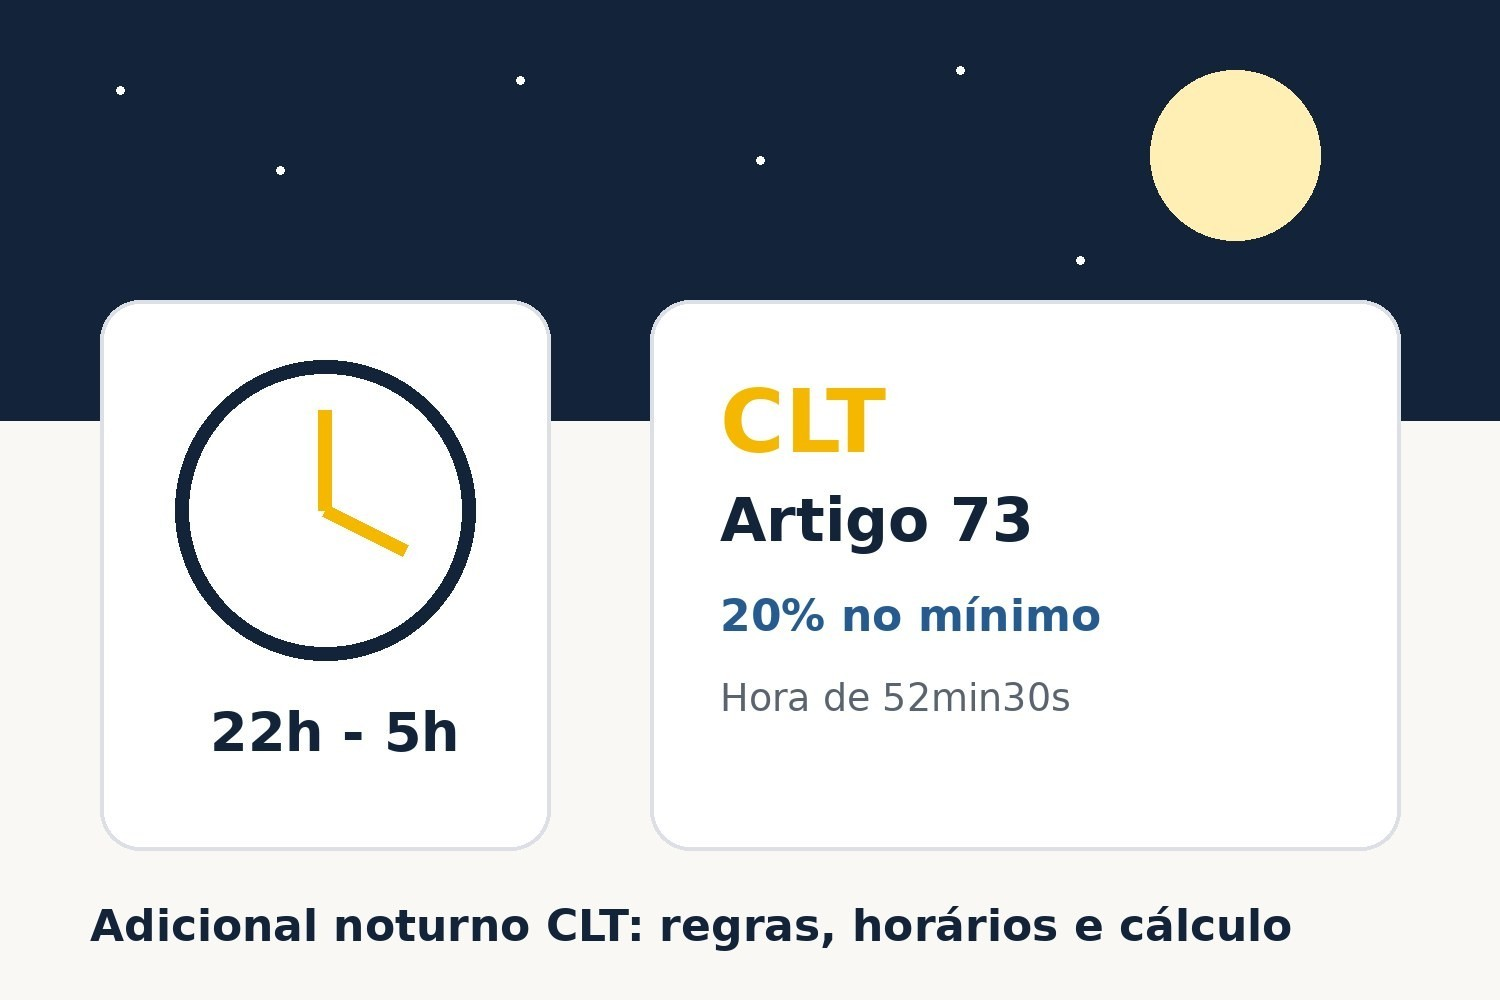
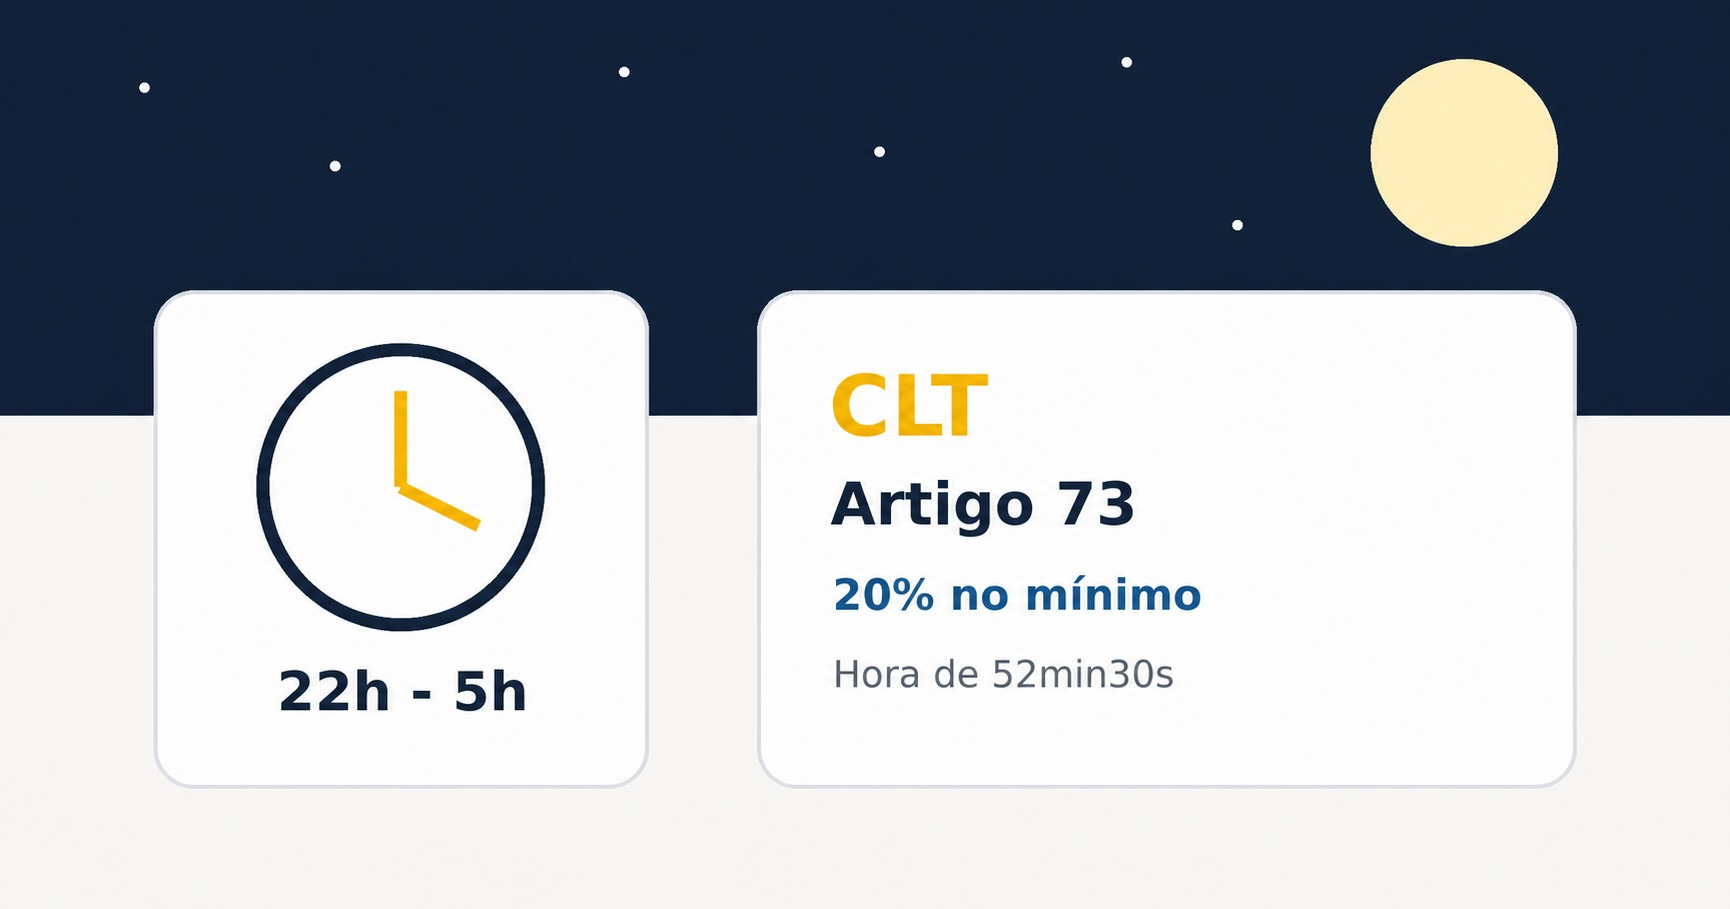
fix: normalize blog card imagery

diff --git a/src/styles/global.css b/src/styles/global.css
@@ -242,7 +242,7 @@ thead th { background: #f4f7f6; }
 .blog-grid { display: grid; grid-template-columns: repeat(3, minmax(0, 1fr)); gap: 1.4rem; }
 .blog-grid .blog-card { display: flex; flex-direction: column; height: 100%; }
 .blog-grid .blog-card-image { aspect-ratio: 1200 / 630; }
-.blog-grid .blog-card-image img { width: 100%; height: 100%; object-fit: contain; }
+.blog-grid .blog-card-image img { width: 100%; height: 100%; object-fit: cover; }
 .blog-grid .blog-card-content { display: flex; flex: 1; flex-direction: column; align-items: flex-start; }
 .blog-grid .blog-card-content h2 { font-size: 1.35rem; }
 .blog-grid .blog-card-content .text-link { margin-top: auto; }
